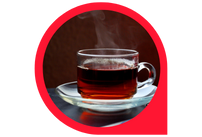
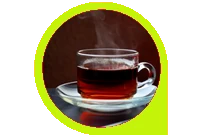
style: change colors

Changed region(s): [[0.1485, 0.0, 0.8317, 0.9927], [0.3861, 0.6423, 0.6535, 0.7591], [0.5644, 0.4964, 0.5941, 0.5255]]

diff --git a/index.html b/index.html
@@ -4,9 +4,12 @@
     <meta charset="UTF-8">
     <meta name="viewport" content="width=device-width, initial-scale=1.0">
     <title>Desafio 19 Dias</title>
+    
     <link href="./style.css" rel="stylesheet"/>
+    
 </head>
 <body>
+    <div class="container">
     <section class="block block1">
         <h2><b>ATENÇÃO</b>: Não saia dessa página, você não terá uma oportunidade dessa outra vez!</h2>
     </section>
@@ -25,35 +28,35 @@
                     <svg xmlns="http://www.w3.org/2000/svg" id="Layer_1" height="512" viewBox="0 0 511.999 511.999" width="512"><g><g><path d="m415.475 444.61c-.768-5.827-2.049-10.644-3.918-14.723-.022-.051-.046-.101-.07-.15-2.238-4.68-4.782-7.96-8.008-10.325-3.619-2.652-7.733-3.997-12.23-3.997h-69.938v-393.683c0-4.236-1.086-8.013-3.225-11.218-2.378-3.568-6.148-6.071-11.524-7.648-3.721-1.125-8.83-1.887-15.613-2.329-5.681-.371-13.04-.537-23.861-.537-7.996 0-14.313 0-19.345.132-5.267.138-9.604.426-12.839.848-3.715.464-6.789 1.113-9.399 1.982-.067.022-.134.046-.201.069-2.763.986-5.081 2.2-7.066 3.701l-104.597 67.718c-.094.061-.186.123-.277.187-3.656 2.544-6.378 4.602-8.581 6.942-2.908 2.947-5.049 6.468-6.366 10.471-1.321 3.563-2.152 7.788-2.47 12.565-.271 4.083-.409 9.338-.409 15.62 0 10.16.414 17.93 1.266 23.754 1.073 7.327 3.319 12.723 6.867 16.492.07.074.141.147.212.22 4.391 4.389 10.178 6.123 17.204 5.154.131-.018.261-.039.391-.062 4.389-.784 9.82-2.739 16.604-5.978.177-.084.351-.174.522-.269l63.688-35.138.003 97.033c0 5.523 4.478 10 10 10s10-4.478 10-10l-.003-113.972c0-3.538-1.87-6.813-4.916-8.611-3.048-1.799-6.818-1.854-9.915-.145l-78.256 43.176c-5.922 2.811-9.253 3.827-11.043 4.176-.11.014-.21.023-.301.03-.35-.77-.87-2.281-1.269-5.004-.7-4.787-1.055-11.805-1.055-20.858 0-5.842.123-10.65.365-14.291.241-3.623.841-5.825 1.301-7.034.066-.173.127-.349.184-.525.364-1.144.878-2.006 1.667-2.794.088-.088.174-.178.258-.269 1.039-1.119 3.169-2.663 5.339-4.176l104.807-67.854c.279-.181.548-.375.807-.582.176-.141.623-.429 1.659-.807 1.321-.429 3.158-.791 5.512-1.086 2.606-.34 6.251-.573 10.83-.693 4.77-.122 10.971-.122 18.822-.122 10.369 0 17.326.152 22.558.494 6.808.444 9.906 1.145 11.146 1.521.038.012.075.022.113.034.147.043.282.084.405.124v403.241c0 5.522 4.478 10 10 10h79.938c.14 0 .216.012.226.014.016.007.079.039.179.113.027.02.676.512 1.755 2.749.995 2.2 1.748 5.203 2.233 8.896.553 4.311.821 9.883.821 17.036 0 6.495-.35 12-1.038 16.362-.809 5.122-1.691 7.623-2.289 8.818-.08.16-.156.323-.228.487-.622 1.428-1.171 1.95-1.164 1.953-.04.028-.079.055-.119.084-.076.055-.1.071-.246.071h-270.123c-.029-.018-.064-.041-.106-.07-.133-.144-.672-.775-1.433-2.366-.025-.052-.05-.104-.076-.155-.599-1.198-1.482-3.701-2.291-8.823-.689-4.363-1.039-9.867-1.039-16.361 0-7.151.269-12.724.818-17.003.49-3.726 1.243-6.729 2.237-8.929.924-1.915 1.584-2.658 1.809-2.876h91.118c5.523 0 10-4.478 10-10v-113.971c0-5.522-4.477-10-10-10s-10 4.478-10 10v103.972h-81.283c-4.617 0-8.848 1.489-12.249 4.31-2.926 2.341-5.372 5.618-7.474 10.014-.023.05-.047.099-.07.149-1.869 4.079-3.15 8.896-3.921 14.755-.671 5.235-.984 11.457-.984 19.58 0 7.642.42 14.015 1.283 19.481.99 6.266 2.298 10.896 4.115 14.563 2.18 4.535 4.756 7.801 7.873 9.978 3.464 2.457 7.414 3.755 11.428 3.755h270.369c4.266 0 8.349-1.298 11.813-3.755 3.271-2.284 6.015-5.784 7.951-10.139 1.776-3.639 3.062-8.226 4.037-14.401.862-5.467 1.282-11.839 1.282-19.481 0-8.125-.313-14.347-.987-19.614z"></path><path d="m212.299 276.443c5.523 0 10-4.478 10-10s-4.477-10-10-10h-.007c-5.523 0-9.996 4.478-9.996 10s4.48 10 10.003 10z"></path></g></g></svg>
                 </div>
                 <h2>DESINTOXICAÇÃO</h2>
-                <h3>Limpar, desintoxicar e desinchar o seu corpo possibilitando perder até 3 kg logo nos primeiros 3 dias.</h3>
+                <h3 class="hidden">Limpar, desintoxicar e desinchar o seu corpo possibilitando perder até 3 kg logo nos primeiros 3 dias.</h3>
             </li>
             <li>
                 <div class="content-icon">
                 <svg xmlns="http://www.w3.org/2000/svg" id="Layer_1" height="512" viewBox="0 0 511.999 511.999" width="512"><g><g><path d="m426.956 442.363c-.976-6.497-2.317-11.316-4.223-15.153-2.315-4.801-5.178-8.304-8.741-10.694-3.688-2.679-8.041-4.093-12.611-4.093h-166.76l39.823-40.722c28.535-28.282 51.806-53.511 69.164-74.983 17.513-21.663 31.329-41.787 41.079-59.84 10.024-18.693 16.481-35.7 19.752-52.054 3.083-15.946 4.646-32.16 4.646-48.19 0-19.114-3.323-37.252-9.877-53.906-6.681-16.981-16.903-31.799-30.383-44.041-13.361-12.133-30.329-21.752-50.452-28.596-19.817-6.696-43.12-10.091-69.26-10.091-16.317 0-32.424 1.566-47.937 4.67-14.967 3.097-29.01 6.953-41.737 11.462-12.877 4.561-23.479 9.212-32.369 14.196-8.951 4.957-15.212 9.124-19.141 12.737-.103.095-.203.19-.302.289-3.63 3.631-6.218 6.712-7.912 9.422-.048.076-.094.152-.14.23-1.818 3.09-3.173 6.526-4.027 10.217-.962 3.713-1.623 7.464-2.024 11.488-.386 3.981-.558 8.762-.558 15.502 0 9.256.312 16.618.948 22.482.606 5.7 1.479 10.778 2.667 15.525.035.138.072.275.112.411 1.641 5.541 3.84 9.376 6.91 12.045 3.481 3.146 7.798 4.809 12.498 4.809 5.432 0 11.469-2.41 18.994-7.584 5.369-3.575 12.149-7.584 20.68-12.226 8.183-4.396 17.673-8.366 28.208-11.799 10.422-3.396 22.509-5.119 35.925-5.119 9.215 0 17.147 1.304 23.498 3.844 6.544 2.682 11.688 6.097 15.728 10.438 4.269 4.59 7.462 9.849 9.523 15.722 2.228 6.154 3.357 12.861 3.357 19.935 0 8.448-.996 17.3-2.959 26.31-2.043 9.371-5.731 19.606-10.964 30.421-2.405 4.972-.325 10.952 4.646 13.357 4.967 2.402 10.951.326 13.357-4.646 5.917-12.23 10.123-23.964 12.501-34.873 2.269-10.406 3.418-20.691 3.418-30.568 0-9.401-1.531-18.398-4.519-26.649-2.946-8.396-7.562-16.008-13.719-22.629-6.054-6.507-13.507-11.519-22.864-15.354-8.804-3.521-19.234-5.306-31.005-5.306-15.524 0-29.696 2.054-42.121 6.104-11.661 3.8-22.251 8.239-31.524 13.222-9.139 4.973-16.438 9.296-22.318 13.216-.042.028-.084.057-.126.085-3.79 2.611-6.043 3.569-7.099 3.915-.199-.429-.476-1.112-.79-2.149-.934-3.778-1.63-7.893-2.13-12.593-.562-5.162-.834-11.816-.834-20.344 0-5.99.147-10.304.461-13.545.3-3.003.794-5.797 1.511-8.541.026-.104.052-.206.075-.31.379-1.664.976-3.232 1.729-4.548.529-.819 1.83-2.562 4.866-5.612 1.624-1.461 5.684-4.591 15.196-9.859 7.931-4.446 17.519-8.638 29.311-12.814 11.874-4.206 25.033-7.815 39.049-10.716 14.162-2.833 28.948-4.27 43.951-4.27 23.959 0 45.107 3.041 62.839 9.032 17.495 5.95 32.106 14.18 43.428 24.46 11.344 10.303 19.592 22.261 25.217 36.559 5.633 14.313 8.488 29.985 8.488 46.583 0 14.76-1.44 29.696-4.27 44.332-2.866 14.33-8.674 29.528-17.739 46.434-9.152 16.945-22.281 36.037-39.021 56.745-16.911 20.918-39.703 45.615-67.745 73.406-.037.036-.074.073-.11.11l-56.495 57.77c-2.813 2.878-3.629 7.161-2.068 10.87 1.562 3.71 5.193 6.122 9.218 6.122h190.526c.387 0 .577.063.885.295.185.138.374.27.567.395.081.053.827.581 1.903 2.821.023.048.047.096.07.143.931 1.861 1.729 4.976 2.37 9.256.688 4.583 1.037 10.176 1.037 16.624 0 7.305-.267 12.989-.815 17.379-.472 3.774-1.229 7.214-2.25 10.227-.556 1.331-1.077 2.022-1.313 2.261-.169.087-.442.177-.925.177h-278.136c-4.617 0-8.539-.408-11.656-1.212-2.036-.525-3.591-1.397-4.646-2.618-1.372-1.579-2.464-4.266-3.242-7.983-.959-4.584-1.445-11.061-1.445-19.25 0-7.774.358-14.462 1.063-19.877.681-5.224 1.762-9.449 3.304-12.918 1.764-3.97 4.012-7.9 6.651-11.639 3.035-4.252 6.72-8.583 11.263-13.24.048-.049.095-.099.142-.149l83.75-89.486c4.264-4.459 8.338-8.829 12.11-12.991 3.709-4.092 3.398-10.416-.693-14.125-4.09-3.708-10.415-3.4-14.125.693-3.664 4.042-7.63 8.295-11.785 12.641-.024.025-.049.052-.073.078l-83.718 89.451c-5.229 5.367-9.529 10.44-13.179 15.551-3.425 4.852-6.325 9.931-8.619 15.094-2.336 5.255-3.926 11.292-4.859 18.456-.829 6.357-1.231 13.704-1.231 22.462 0 9.697.611 17.334 1.869 23.348 1.509 7.201 4.035 12.765 7.704 16.983 3.69 4.273 8.795 7.346 14.763 8.886 4.749 1.226 10.353 1.847 16.653 1.847h278.137c4.515 0 8.812-1.314 12.426-3.801.083-.057.164-.115.245-.174 3.495-2.563 6.261-6.344 8.219-11.238.058-.146.112-.293.164-.44 1.519-4.385 2.622-9.273 3.279-14.53.652-5.221.97-11.717.97-19.859-.001-7.443-.424-14.035-1.259-19.598z"></path><path d="m253.119 259.061c0-5.522-4.478-10-10-10h-.008c-5.522 0-9.996 4.478-9.996 10s4.481 10 10.004 10 10-4.478 10-10z"></path></g></g></svg>
                 </div>
                 <h2>TRANSFORMAÇÃO</h2>
-                <h3>Reestruturar a sua alimentação aos princípios Low Carb, para reduzir a ingestão de carboidratos e consumir mais proteínas e gorduras boas.</h3>
+                <h3 class="hidden">Reestruturar a sua alimentação aos princípios Low Carb, para reduzir a ingestão de carboidratos e consumir mais proteínas e gorduras boas.</h3>
             </li>
             <li>
                 <div class="content-icon">
                 <svg xmlns="http://www.w3.org/2000/svg" id="Layer_1" height="512" viewBox="0 0 511.999 511.999" width="512"><g><g><path d="m416.64 311.263c-5.305-13.463-13.065-25.707-23.066-36.393-9.952-10.634-22.244-19.545-36.5-26.469-5.129-2.517-10.455-4.705-16.019-6.577 3.122-1.638 6.131-3.393 9.022-5.264 11.843-7.663 21.688-16.959 29.264-27.629 7.782-10.663 13.725-22.954 17.655-36.509 3.929-13.41 5.921-27.939 5.921-43.185 0-19.848-3.427-38.066-10.168-54.114-6.693-16.116-16.87-30.011-30.284-41.329-13.139-10.972-29.374-19.453-48.273-25.217-18.798-5.691-40.317-8.577-63.96-8.577-18.213 0-35.367 1.584-51.064 4.723-16.195 3.375-29.733 7.17-41.422 11.616-11.906 4.579-22.062 9.399-30.246 14.363-8.909 5.494-13.742 8.874-16.684 11.667-.063.06-.125.12-.186.182-3.479 3.48-5.569 6.077-6.963 8.656-1.409 2.526-2.556 5.415-3.604 9.079-.012.04-.022.08-.034.12-.94 3.452-1.541 7.431-1.837 12.181-.266 4.373-.395 9.575-.395 15.902 0 7.783.264 14.073.81 19.253.556 5.148 1.443 9.486 2.637 12.893.048.135.098.27.151.402 1.792 4.484 4.428 7.795 7.837 9.841 2.904 1.804 6.343 2.718 10.225 2.718 5.004 0 10.705-2.212 19.062-7.394 6.234-3.864 13.635-8.034 21.997-12.395 8.484-4.299 18.176-8.275 28.902-11.852 10.202-3.515 20.867-5.223 32.603-5.223 10.127 0 18.806 1.343 25.798 3.991.041.016.083.031.124.046 3.203 1.165 6.182 2.568 8.854 4.172 4.737 2.843 10.878 1.305 13.72-3.431 2.841-4.736 1.306-10.879-3.431-13.72-3.749-2.249-7.869-4.198-12.248-5.795-9.378-3.542-20.114-5.264-32.817-5.264-13.794 0-26.955 2.124-39.021 6.28-11.584 3.862-22.208 8.229-31.578 12.981-.033.018-.065.034-.099.051-8.821 4.598-16.674 9.024-23.343 13.158-4.57 2.834-6.974 3.85-8.058 4.211-.405-1.326-.993-3.78-1.427-7.794-.463-4.39-.697-10.153-.697-17.132 0-5.919.117-10.725.356-14.675.205-3.283.594-6.006 1.156-8.092.598-2.079 1.217-3.695 1.841-4.804.037-.065.073-.132.109-.199.136-.255.781-1.286 3.409-3.925 1.804-1.677 6.285-4.727 13.265-9.031 7.107-4.312 16.188-8.604 26.956-12.744 10.658-4.055 23.204-7.561 38.277-10.701 14.332-2.862 30.166-4.315 47.065-4.315 21.678 0 41.246 2.598 58.145 7.715 16.31 4.973 30.194 12.184 41.23 21.398 10.913 9.209 19.214 20.541 24.688 33.72 5.803 13.812 8.623 28.99 8.623 46.405 0 13.341-1.721 25.979-5.122 37.588-3.294 11.358-8.22 21.573-14.643 30.361-.028.039-.057.078-.085.117-6.192 8.736-13.996 16.084-23.855 22.465-9.663 6.252-21.033 10.997-33.793 14.101-4.482 1.091-7.637 5.104-7.637 9.717v1.128c0 5.061 3.781 9.324 8.806 9.929 15.869 1.908 29.501 5.74 41.712 11.73 12.079 5.867 22.398 13.323 30.671 22.163 8.388 8.961 14.623 18.793 19.074 30.089 4.438 11.154 6.688 23.283 6.688 36.05 0 22.08-4.209 41.812-12.485 58.595-8.513 17.025-20.292 31.385-35.01 42.68-15.196 11.662-33.576 20.676-54.563 26.773-21.724 6.154-45.653 9.275-71.125 9.275-15.677 0-30.437-1.136-43.856-3.372-14.091-2.369-25.935-5.128-36.209-8.435-.033-.011-.066-.021-.1-.031-9.876-3.064-18.376-6.456-25.321-10.111-6.589-3.412-10.487-5.887-11.998-7.108-1.125-1.02-1.863-1.975-2.371-3.065-.875-2.099-1.7-4.555-2.367-7.029-.729-2.81-1.263-6.435-1.59-10.794-.322-4.193-.473-9.688-.473-17.289 0-13.598 1.415-18.728 2.072-20.373.085-.186.164-.343.237-.476 1.151.385 3.434 1.301 7.378 3.438 6.313 3.42 14.372 7.123 23.95 11.006 9.637 3.907 21.065 7.589 33.966 10.942 13.3 3.459 28.489 5.213 45.146 5.213 14.248 0 27.21-1.749 38.524-5.199 11.225-3.422 21.164-8.454 29.544-14.955.051-.039.101-.079.15-.119 8.386-6.767 14.787-15.018 19.027-24.521.018-.039.034-.078.052-.118 4.035-9.367 6.081-19.853 6.081-31.164 0-12.427-2.489-23.853-7.399-33.96-.017-.033-.033-.067-.051-.102-5.187-10.377-12.66-19.136-22.212-26.034-9.302-6.927-21.196-12.319-35.329-16.023-13.719-3.632-29.851-5.474-47.947-5.474h-41.125c-1.83 0-3.25-.158-4.229-.47-.108-.111-.331-.374-.618-.89-.442-.867-1.446-3.232-2.04-7.75-.533-4.053-.793-9.654-.793-17.126 0-7.01.256-12.261.783-16.053.633-4.56 1.506-6.336 1.758-6.772.103-.176.199-.355.29-.537.151-.304.28-.484.354-.577.77-.354 1.889-.541 3.24-.541h41.376c15.214 0 28.843-1.832 40.512-5.444 12.026-3.561 22.502-8.941 31.202-16.047 7.288-6.053 13.177-13.274 17.5-21.462 2.579-4.884.711-10.934-4.173-13.513-4.886-2.578-10.935-.71-13.513 4.173-3.138 5.941-7.257 10.984-12.529 15.363-6.674 5.45-14.595 9.48-24.218 12.324-.044.013-.088.025-.132.039-9.761 3.03-21.419 4.566-34.649 4.566h-41.376c-4.304 0-8.227.808-11.663 2.401-4.075 1.82-7.416 5.1-9.684 9.502-1.961 3.495-3.305 8.005-4.106 13.772-.663 4.779-.973 10.755-.973 18.805 0 8.469.306 14.74.963 19.735.758 5.758 2.169 10.635 4.192 14.497.025.048.051.096.077.144 2.544 4.667 6.171 8.074 10.489 9.853.061.024.121.049.183.072 3.392 1.32 7.134 1.935 11.775 1.935h41.125c16.37 0 30.779 1.617 42.853 4.814 11.689 3.063 21.287 7.356 28.526 12.759.045.034.09.067.136.1 7.016 5.055 12.269 11.188 16.059 18.749 3.61 7.452 5.365 15.686 5.365 25.171 0 8.551-1.489 16.354-4.425 23.194-2.968 6.627-7.293 12.185-13.221 16.984-6.437 4.978-14.188 8.869-23.041 11.568-9.424 2.873-20.423 4.33-32.692 4.33-14.96 0-28.456-1.537-40.114-4.569-12.06-3.135-22.651-6.54-31.483-10.121-8.895-3.604-16.275-6.988-21.938-10.057-7.783-4.217-13.158-6.097-17.428-6.097-7.874 0-14.449 4.632-18.04 12.707-.032.071-.063.145-.094.217-2.458 5.899-3.652 15.114-3.652 28.17 0 8.126.169 14.106.53 18.804.42 5.605 1.131 10.283 2.196 14.391.948 3.521 2.066 6.819 3.323 9.806.031.074.064.149.098.224 1.693 3.764 4.145 7.04 7.491 10.016.079.07.159.139.239.206 3.063 2.553 8.353 5.783 15.664 9.57 7.958 4.188 17.582 8.047 28.604 11.469 11.19 3.598 23.937 6.575 38.979 9.104 14.518 2.42 30.384 3.646 47.159 3.646 27.315 0 53.079-3.376 76.641-10.051 23.448-6.813 44.047-16.949 61.224-30.131 17.143-13.155 30.843-29.844 40.747-49.651 9.67-19.608 14.572-42.315 14.572-67.49.003-15.312-2.725-29.928-8.091-43.414z"></path><path d="m296.604 134.013c0-5.522-4.478-10-10-10h-.008c-5.522 0-9.996 4.478-9.996 10s4.481 10 10.004 10 10-4.478 10-10z"></path></g></g></svg>
                 </div>
                 <h2>ATIVAÇÃO DO SEU CORPO</h2>
-                <h3>Além de potencializar o seu emagrecimento, você pode também perceber melhoras significativas na sua energia e disposição.</h3>
+                <h3 class="hidden">Além de potencializar o seu emagrecimento, você pode também perceber melhoras significativas na sua energia e disposição.</h3>
             </li>
             <li>
                 <div class="content-icon">
                 <svg xmlns="http://www.w3.org/2000/svg" id="Layer_1" height="512" viewBox="0 0 512 512" width="512"><g><g><path d="m283.376 85.599h-.771c-3.586 0-6.897 1.92-8.679 5.032l-41.648 72.76c-2.744 4.793-1.082 10.903 3.711 13.646 4.793 2.746 10.903 1.083 13.646-3.711l23.741-41.476v177.385h-101.537l33.079-57.788c2.744-4.793 1.083-10.903-3.711-13.646-4.792-2.745-10.903-1.082-13.646 3.711l-41.646 72.756c-1.771 3.095-1.761 6.898.028 9.983s5.085 4.984 8.651 4.984h128.784c5.523 0 10-4.478 10-10v-223.636c-.002-5.523-4.479-10-10.002-10z"></path><path d="m441.524 324.25c-5.714-12.407-13.668-15.015-19.339-15.015h-33.185v-283.041c0-3.974-1.264-9.774-7.285-14.846-.144-.122-.292-.239-.442-.353-3.891-2.917-9.114-5.176-15.527-6.714-6.023-1.565-13.735-2.664-23.563-3.357-8.727-.621-19.722-.924-33.616-.924-11.966 0-22.294.266-30.698.791-9.208.575-16.417 1.44-22.036 2.645-6.695 1.435-11.403 3.006-15.264 5.098-.053.028-.105.058-.158.087-4.557 2.576-7.963 5.745-10.125 9.42-.027.046-.054.092-.08.139l-151.276 266.82c-.033.059-.066.117-.098.176-2.59 4.791-4.879 9.698-6.805 14.586-.044.111-.085.223-.125.336-1.838 5.206-3.187 10.144-4.124 15.094-.967 5.108-1.667 10.92-2.081 17.273-.37 5.675-.535 12.337-.535 21.602 0 10.89.444 18.883 1.399 25.153 1.067 7.013 2.793 12.575 5.275 17.007.078.139.16.276.244.411 3.238 5.183 7.424 8.629 12.442 10.246 3.568 1.182 7.77 1.781 12.49 1.781h176.364v78.298c0 4.661 1.343 8.855 3.992 12.468 2.588 3.529 6.605 6.23 12.282 8.26.102.036.204.07.307.104 4.527 1.454 10.337 2.579 16.804 3.253 6.244.65 13.843.953 23.914.953 10.553 0 18.322-.304 24.45-.955 6.118-.651 11.701-1.726 16.595-3.192.131-.04.261-.081.39-.126 5.808-2.004 9.903-4.661 12.509-8.115 2.868-3.653 4.382-8.022 4.382-12.648v-78.298h33.185c5.1 0 14.469-2.127 19.973-16.361 3.149-7.846 4.68-18.631 4.68-32.968-.002-16.317-1.69-27.47-5.315-35.088zm-17.944 60.646c-.021.051-.041.103-.061.154-.837 2.177-1.565 3.197-1.929 3.615h-42.59c-5.523 0-10 4.478-10 10v88.298c0 .088-.007.137-.007.14-.006.015-.039.074-.115.169-.021.026-.043.054-.064.08-.243.177-1.067.707-3.041 1.403-3.669 1.083-7.962 1.891-12.765 2.401-5.334.568-12.64.844-22.334.844-9.234 0-16.378-.276-21.841-.846-4.96-.517-9.426-1.351-12.604-2.353-1.737-.633-2.521-1.125-2.799-1.326-.029-.09-.053-.238-.053-.513v-88.298c0-5.522-4.477-10-10-10h-186.365c-3.226 0-5.162-.42-6.218-.772-.044-.015-.088-.029-.133-.043-.2-.063-.755-.482-1.49-1.607-.862-1.614-2.015-4.632-2.837-10.032-.788-5.178-1.171-12.421-1.171-22.144 0-8.694.157-15.145.493-20.3.361-5.546.958-10.544 1.774-14.856.736-3.889 1.807-7.812 3.272-11.986 1.607-4.06 3.517-8.146 5.678-12.151l151.162-266.62c.113-.175.701-.973 2.629-2.075 2.061-1.098 5.284-2.107 9.853-3.086 4.64-.995 10.884-1.728 19.091-2.24 7.991-.499 17.9-.752 29.452-.752 13.414 0 23.944.286 32.199.875 8.525.601 15.261 1.537 20.021 2.783.072.02.145.037.217.055 4.639 1.104 7.009 2.417 7.996 3.09v292.433c0 5.522 4.477 10 10 10h42.321c.399.441 1.143 1.431 2.056 3.421.023.052.048.104.072.154 1.545 3.226 3.388 10.446 3.388 26.525 0 11.607-1.096 20.207-3.257 25.56z"></path><path d="m218.599 217.417c5.523 0 10-4.478 10-10s-4.477-10-10-10h-.007c-5.523 0-9.996 4.478-9.996 10s4.48 10 10.003 10z"></path></g></g></svg>
                 </div>
                 <h2>ACELERAÇÃO</h2> 
-                <h3>Tire o seu organismo da estagnação e gere novos estímulos para potencializar a mudança corporal e redução das suas medidas.</h3>  
+                <h3 class="hidden">Tire o seu organismo da estagnação e gere novos estímulos para potencializar a mudança corporal e redução das suas medidas.</h3>  
             </li>
             <li>
                 <div class="content-icon">
                 <svg xmlns="http://www.w3.org/2000/svg" id="Layer_1" height="512" viewBox="0 0 512 512" width="512"><g><g><path d="m412.792 271.567c-7.864-19.04-19.43-35.161-34.344-47.886-14.705-12.661-33.182-22.388-54.901-28.903-21.12-6.376-45.562-9.608-72.647-9.608-9.545 0-18.742.13-27.331.386-5.215.154-10.471.445-15.721.87v-82.258h162.162c5.392 0 15.239-2.143 20.677-16.469 3.113-7.907 4.626-19.725 4.626-36.125 0-8.428-.306-14.922-.959-20.411-.729-6.27-1.954-11.394-3.746-15.659-1.934-4.793-4.79-8.678-8.265-11.241-3.738-2.789-8.001-4.263-12.334-4.263h-229.039c-11.265 0-19.973 3.286-25.881 9.767-.037.04-.073.08-.109.121-5.545 6.284-8.24 15.457-8.24 28.041v209.782c0 12.46 2.27 20.896 7.125 26.528 5.032 5.872 12.779 8.85 23.024 8.85 10.479 0 22.159-.753 34.714-2.237.04-.005.08-.01.119-.015 11.248-1.467 24.071-2.211 38.112-2.211 17.04 0 31.799 1.53 43.872 4.549 1.072.267 2.124.548 3.158.842 5.311 1.508 10.843-1.572 12.354-6.885 1.51-5.313-1.573-10.844-6.885-12.354-1.24-.353-2.501-.688-3.78-1.008-13.653-3.414-30.044-5.145-48.718-5.145-14.877 0-28.547.798-40.634 2.37-11.758 1.389-22.629 2.093-32.312 2.093-4.602 0-7.066-.963-7.857-1.886-.234-.272-2.292-2.964-2.292-13.492v-209.781c0-9.883 2.188-13.579 3.187-14.75 1.976-2.109 5.69-3.179 11.043-3.179h228.932c.075.032.254.122.56.352.222.175.943.997 1.613 2.672.024.062.049.122.075.183 1.046 2.474 1.833 5.928 2.34 10.294.553 4.648.822 10.561.822 18.074 0 17.054-1.767 25.093-3.25 28.835-.02.051-.04.102-.059.153-.941 2.494-1.776 3.379-2.03 3.605h-172.126c-5.523 0-10 4.478-10 10v103.297c0 2.855 1.221 5.575 3.354 7.473s4.979 2.791 7.813 2.459c8.343-.98 16.802-1.603 25.146-1.85 8.395-.25 17.391-.377 26.738-.377 25.126 0 47.623 2.945 66.884 8.76 19.03 5.709 35.05 14.089 47.649 24.938 12.692 10.829 22.137 24.023 28.884 40.359 6.684 16.063 10.073 35.323 10.073 57.244 0 24.526-4.305 46.725-12.795 65.977-8.376 18.993-20.44 35.298-35.823 48.433-15.423 13.05-34.368 23.273-56.292 30.381-22.104 7.125-47.159 10.738-74.467 10.738-14.761 0-28.616-.91-41.193-2.707-12.519-1.771-24.306-4.094-35.033-6.9-11.057-3.028-19.023-5.638-25.002-8.185-8.021-3.48-10.062-4.862-10.531-5.263-.073-.068-.148-.137-.224-.203-1.04-.917-1.775-1.833-2.246-2.795-.637-1.465-1.201-3.396-1.707-5.825-.49-2.45-.849-5.864-1.096-10.438-.244-4.509-.368-9.991-.368-16.294 0-6.596.239-12.207.71-16.681.542-5.154 1.272-7.813 1.79-9.134.017-.044.034-.089.051-.133.244-.65.455-1.138.626-1.496 1.027.363 2.818 1.125 5.558 2.701.054.031.109.062.165.092 5.58 3.069 12.689 6.403 21.183 9.932 9.047 3.7 19.801 7.035 31.888 9.895 12.534 3.066 27.793 4.622 45.354 4.622 15.066 0 29.175-1.601 41.935-4.757.032-.008.065-.016.097-.024 13.398-3.457 24.469-8.783 33.904-16.331 9.514-7.729 16.862-17.345 21.82-28.536 5.066-11.29 7.635-24.724 7.635-39.929 0-.642-.005-1.279-.016-1.915-.088-5.522-4.684-9.932-10.158-9.84-5.522.088-9.927 4.636-9.839 10.158.008.53.013 1.063.013 1.597 0 12.363-1.979 23.043-5.902 31.784-3.738 8.438-9.025 15.357-16.105 21.11-7.114 5.69-15.717 9.787-26.301 12.523-11.177 2.76-23.653 4.159-37.082 4.159-15.96 0-29.62-1.362-40.674-4.067-11.153-2.639-20.909-5.653-28.945-8.94-7.733-3.212-14.155-6.214-19.09-8.923-6.682-3.83-11.846-5.615-16.246-5.615-4.414 0-8.419 1.454-11.613 4.21-2.875 2.294-5.08 5.649-6.909 10.507-1.429 3.679-2.392 8.212-3.027 14.257-.552 5.237-.82 11.379-.82 18.774 0 6.662.133 12.508.397 17.373.303 5.616.766 9.836 1.471 13.358.839 4.03 1.816 7.228 3.076 10.06.029.065.059.131.089.195 1.612 3.426 3.983 6.544 7.047 9.27 2.852 2.628 7.258 5.059 16.192 8.936 6.903 2.94 15.698 5.837 27.675 9.116.036.01.071.019.107.028 11.484 3.008 24.051 5.487 37.337 7.367 13.496 1.929 28.303 2.907 44.007 2.907 29.395 0 56.514-3.938 80.621-11.709 24.425-7.918 45.641-19.405 63.092-34.172 17.72-15.131 31.571-33.837 41.169-55.602 9.619-21.812 14.496-46.724 14.496-74.047 0-24.571-3.906-46.415-11.597-64.903z"></path><path d="m307.469 298.72c0-5.522-4.477-10-10-10h-.007c-5.523 0-9.996 4.478-9.996 10s4.48 10 10.003 10 10-4.478 10-10z"></path></g></g></svg>
                 </div>
                 <h2>FINALIZAÇÃO</h2>
-                <h3>Parabéns! Você concluiu seu desafio. Aqui você provavelmente já vai ter eliminado o peso que desejava, poderá estar com a sua barriga sequinha e com a autoconfiança nas alturas!</h3>
+                <h3 class="hidden">Parabéns! Você concluiu seu desafio. Aqui você provavelmente já vai ter eliminado o peso que desejava, poderá estar com a sua barriga sequinha e com a autoconfiança nas alturas!</h3>
             </li>
         </ul>
     </section>
@@ -62,7 +65,7 @@
         <h1><span>PROGRAMA DE REEDUCAÇÃO ALIMENTAR</span> QUE VAI TE AJUDAR A CONQUISTAR<span> RESULTADOS EXTRAORDINÁRIOS </span>EM MUITO POUCO TEMPO!</h1>
         <ul>
             <li>
-                <img src="./images/1.png.webp" alt="">
+                <img src="./images/1.png.webbp" alt="">
                 <h2>Sucos Detox</h2>
                 <h3>Conte com diversas opções de sucos detox poderosos para secar e desinchar! Desinflame seu organismo e desinche a barriga em poucos dias</h3>
             </li>
@@ -204,6 +207,7 @@
             </li>
         </ul>
     </section>
+</div>
 
     <footer>
         <p>AVISO LEGAL: Todas as sugestões e conceitos apresentados aqui têm como objetivo apenas informar e educar. Este site foi disponibilizado com esse objetivo e não tem intenção nenhuma de servir como orientação médica, prescrição ou substituir diagnósticos de profissionais. Nenhuma informação desta página ou deste produto substitui uma consulta com seu médico, nutricionista ou um personal. É importante o acompanhamento profissional para qualquer mudança na alimentação ou estilo de vida alimentar. É só ele quem poderá avaliar de perto a sua situação atual e decidir se você está apto(a) ou não à essas alterações. Para mais informações, acesse aqui nossos Termos de Uso e Política de Privacidade. Tenha em mente que os resultados aqui apresentados não garantem que você terá os mesmo resultados, isso depende e varia do organismo de cada pessoa e da determinação em seguir as sugestões propostas e ter resultados.</p>

diff --git a/style.css b/style.css
@@ -8,6 +8,8 @@ body{
     justify-content: center;
     text-align: center;
     flex-direction: column;
+    word-wrap: normal;
+    overflow-wrap: normal;
 }
 ::-webkit-scrollbar {
     width: 2px;
@@ -73,16 +75,29 @@ a{
     flex-direction: column;
     color:#fefefe;
     padding: 20px;
+    margin-top: 20px;
 }
 iframe{
-    width: 100%;
+    width: auto;
+    max-width: 900px;
 }
+
+img{
+    max-width:100%;
+}
+
 .svg-icon{
     width: 20px;
 }
+.block{
+    display: grid;
+    justify-items: center;
+    padding-bottom: 20px;
+    padding-top: 20px;
+}
 .block1{
     margin: 0;
-    background-color: #fe0000;
+    background-color: #0ba90e;
     padding: 20px;
     color: #fefefe;
    
@@ -96,6 +111,8 @@ iframe{
 .block2 h1{
     color: #fefefe;
 }
+
+
 .block3 li{
     background-color: #C4F40A;
     margin: 20px 0;
@@ -126,7 +143,6 @@ iframe{
     padding: 40px 20px;
 }
 
-
 .block4 li{
     margin: 20px 0;
 
@@ -141,7 +157,7 @@ iframe{
 
 }
 .block5 li{
-    border: 5px solid red;
+    border: 5px solid #C4F40A;
     border-radius: 25px;
     padding: 10px;
     margin: 20px 0;
@@ -239,3 +255,15 @@ footer{
     color: #dedede;
     background-color: #000;
 }
+
+#image-carousel{
+    width: 70%;
+}
+.splide__slide img {
+    width: 100%;
+   
+  }
+  .splide__slide video {
+    width: 100%;
+    
+  }

diff --git a/app.js b/app.js
@@ -34,4 +34,3 @@ function openFaq(n){
     }
 
 }
-
